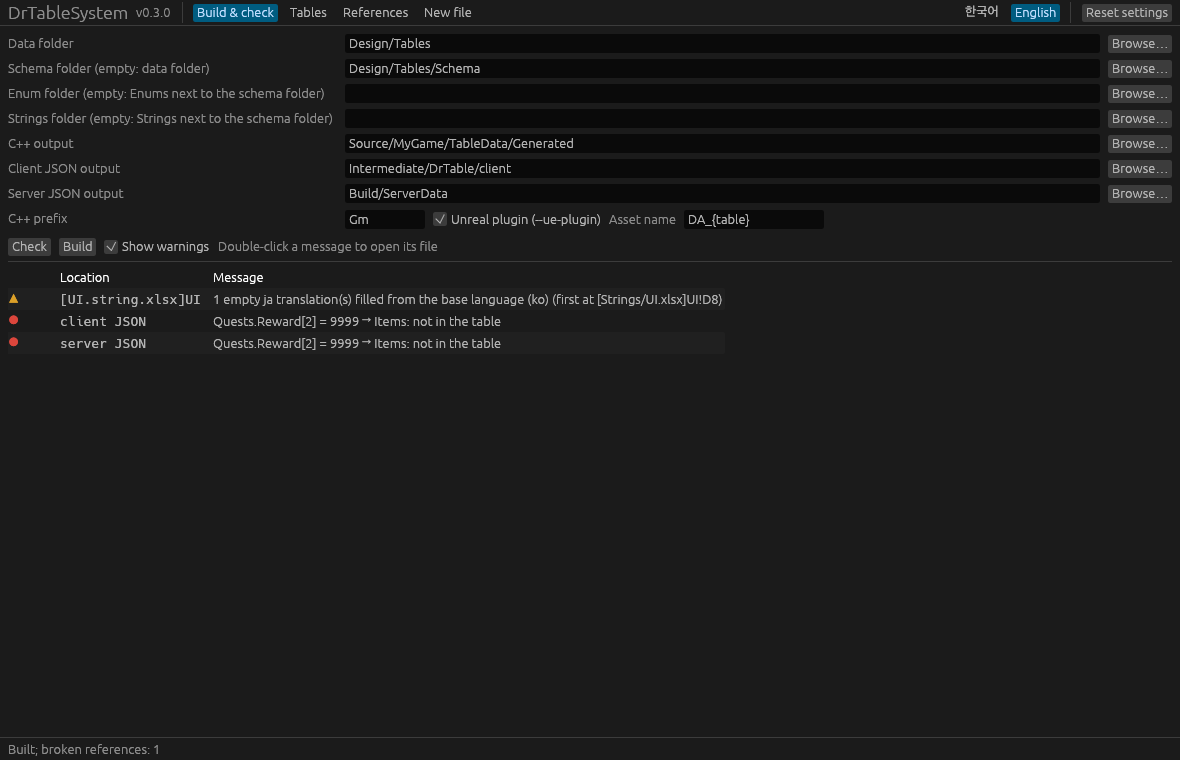
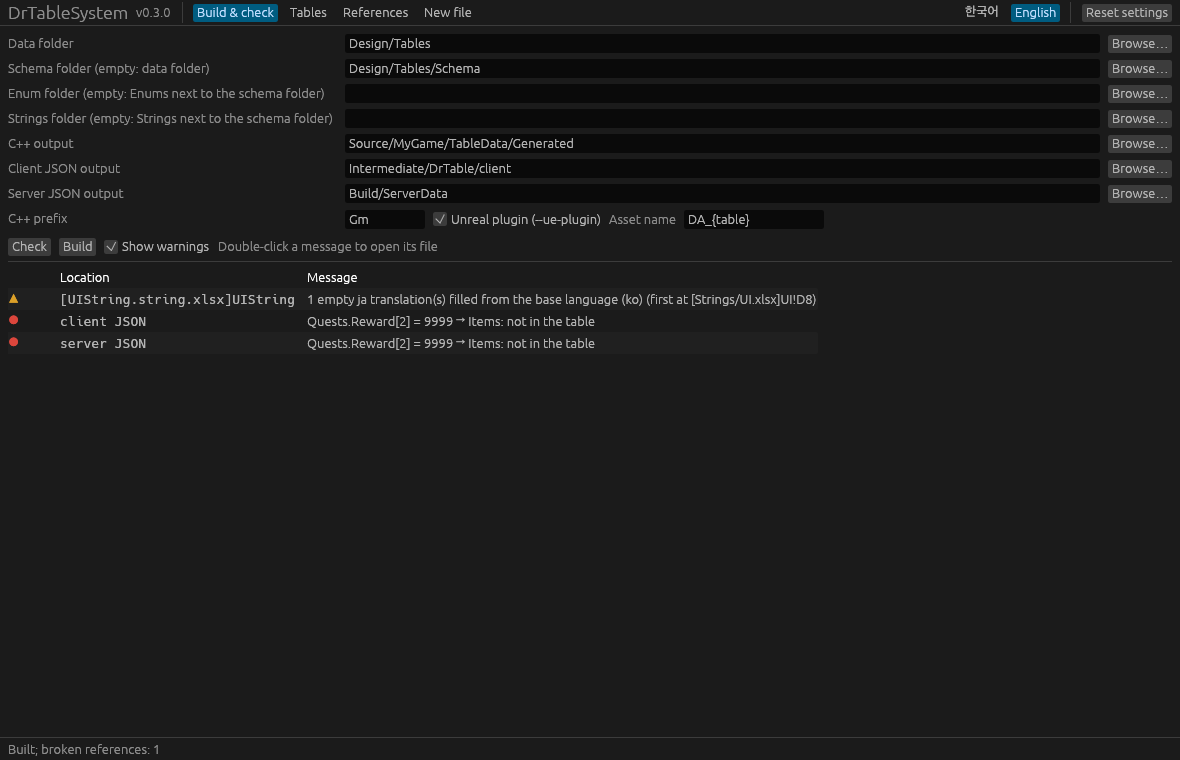
String table schemas are named after the table: UIString.string.xlsx
- The schema file and sheet carry the full table name, which must end with String
  (UIString.string.xlsx, sheet UIString); a name without it is an error with an example.
- Data sheets in the strings folder may leave out String (UI) or write it (UIString).
- Schema errors are reported even when they leave no schema (the empty-input check
  no longer hides them).
- Manual, README, CHANGELOG, design note, screenshots updated.

Claude-Session: https://claude.ai/code/session_016ZSFGbiCnqUvygNywMoQZv

Changed region(s): [[0.0915, 0.3632, 0.6712, 0.4539]]

diff --git a/rust/tests/strings.rs b/rust/tests/strings.rs
@@ -1,5 +1,5 @@
-//! String tables: `<Name>.string.xlsx` language lists, the strings folder, per-language output
-//! and text references. The string table `UI` is the table `UIString`.
+//! String tables: `<Name>String.string.xlsx` language lists, the strings folder, per-language
+//! output and text references. Data sheets may leave out the String suffix (`UI` for `UIString`).
 
 #[macro_use]
 mod common;
@@ -44,7 +44,7 @@ impl Project {
         write_schema(&self.table.join("Schema").join(format!("{name}.schema.xlsx")), name, &fields(items));
     }
 
-    /// Schema/<name>.string.xlsx: one language per row (Language, Base, Scope).
+    /// Schema/<name>.string.xlsx (name ends with String): one language per row (Language, Base, Scope).
     fn string_schema(&self, name: &str, languages: &[Language]) {
         let mut rows = vec![row!["Language", "Base", "Scope", "Comment"]];
         for (code, base, scope) in languages {
@@ -62,7 +62,7 @@ impl Project {
     }
 
     fn ui_strings(&self, data: Vec<Row>) {
-        self.string_schema("UI", &UI_LANGUAGES);
+        self.string_schema("UIString", &UI_LANGUAGES);
         self.data("Strings/UI.xlsx", vec![("UI", sheet(row!["Id", "ko", "en", "zh-Hans"], data))]);
     }
 
@@ -105,7 +105,7 @@ fn string_table_outputs_one_file_per_language() {
     // The empty zh-Hans cell takes the base text.
     let zh = project.json("client/Strings/zh-Hans/UIString.json");
     assert_eq!(zh["values"], json!(["확인", "{0} 金币", "主界面"]));
-    assert!(result.stderr.contains("[UI.string.xlsx]UI: zh-Hans 번역 1칸이 비어 기준 언어(ko) 값으로 채웠습니다"), "{}", result.stderr);
+    assert!(result.stderr.contains("[UIString.string.xlsx]UIString: zh-Hans 번역 1칸이 비어 기준 언어(ko) 값으로 채웠습니다"), "{}", result.stderr);
     assert!(result.stderr.contains("[Strings/UI.xlsx]UI!D5"), "{}", result.stderr);
     // The structure hash is shared; each language has its own content hash.
     assert_eq!(ko["schema_hash"], zh["schema_hash"]);
@@ -115,7 +115,7 @@ fn string_table_outputs_one_file_per_language() {
     assert!(manifest["tables"].as_array().unwrap().iter().all(|t| t["name"] != "UIString"));
     let entry = &manifest["string_tables"][0];
     assert_eq!(entry["name"], "UIString");
-    assert_eq!(entry["schema"], "UI.string.xlsx");
+    assert_eq!(entry["schema"], "UIString.string.xlsx");
     assert_eq!(entry["base_language"], "ko");
     assert_eq!(entry["languages"], json!(["ko", "en", "zh-Hans"]));
     assert_eq!(entry["content_hashes"]["en"], project.json("client/Strings/en/UIString.json")["content_hash"]);
@@ -130,7 +130,7 @@ fn string_table_outputs_one_file_per_language() {
 
 #[test]
 fn a_string_table_and_a_table_may_share_a_name() {
-    // UI.string.xlsx defines UIString, so a regular table UI is unaffected.
+    // UIString.string.xlsx defines UIString; its data sheets are named UI, and a regular table UI is unaffected.
     let project = Project::new();
     project.ui_strings(sample_rows());
     project.schema("UI", &[("Id", "ID<int32>", "all")]);
@@ -144,7 +144,7 @@ fn a_string_table_and_a_table_may_share_a_name() {
 #[test]
 fn server_scope_languages_go_to_the_server_output() {
     let project = Project::new();
-    project.string_schema("Mail", &[("ko", true, "all"), ("en", false, "")]);
+    project.string_schema("MailString", &[("ko", true, "all"), ("en", false, "")]);
     project.data("Strings/Mail.xlsx", vec![("Mail", sheet(row!["Id", "ko", "en"], vec![row!["Welcome", "환영", "Welcome"]]))]);
     assert_eq!(project.build(&[]).code, 0);
     assert_eq!(project.json("server/manifest.json")["string_tables"][0]["languages"], json!(["ko"]));
@@ -218,23 +218,23 @@ fn string_keys_header_is_opt_in() {
 #[test]
 fn string_data_belongs_in_the_strings_folder() {
     let project = Project::new();
-    project.string_schema("UI", &UI_LANGUAGES);
+    project.string_schema("UIString", &UI_LANGUAGES);
     project.schema("Items", &[("Id", "ID<int32>", "all")]);
     project.data("UI.xlsx", vec![("UI", sheet(row!["Id", "ko", "en", "zh-Hans"], vec![row!["A", "가", (), ()]]))]);
     project.data("Strings/Items.xlsx", vec![("Items", sheet(row!["Id"], vec![row![1]]))]);
     project.data("Strings/Other.xlsx", vec![("Menu", sheet(row!["Id", "ko"], vec![row!["A", "가"]]))]);
     let result = project.build(&[]);
     assert_eq!(result.code, 1);
-    assert!(result.stderr.contains("[UI.xlsx]UI!A1: 스트링테이블 'UI'의 데이터는 스트링 폴더("), "{}", result.stderr);
+    assert!(result.stderr.contains("[UI.xlsx]UI!A1: 스트링테이블 'UIString'의 데이터는 스트링 폴더("), "{}", result.stderr);
     assert!(result.stderr.contains("[Strings/Items.xlsx]Items!A1: 일반 테이블 'Items'의 데이터는 스트링 폴더("), "{}", result.stderr);
-    assert!(result.stderr.contains("[Strings/Other.xlsx]Menu!A1: 스트링테이블 스키마가 없습니다. 언어 목록을 'Menu.string.xlsx'에"), "{}", result.stderr);
+    assert!(result.stderr.contains("[Strings/Other.xlsx]Menu!A1: 스트링테이블 스키마가 없습니다. 언어 목록을 'MenuString.string.xlsx'에"), "{}", result.stderr);
 }
 
 #[test]
 fn strings_folder_option_and_default_without_a_schema_folder() {
     // Elsewhere with --strings.
     let project = Project::new();
-    project.string_schema("UI", &UI_LANGUAGES);
+    project.string_schema("UIString", &UI_LANGUAGES);
     let elsewhere = project.table.parent().unwrap().join("Localization");
     Book::new()
         .with("UI", sheet(row!["Id", "ko", "en", "zh-Hans"], vec![row!["A", "가", "A", "甲"]]))
@@ -246,8 +246,8 @@ fn strings_folder_option_and_default_without_a_schema_folder() {
     // Without --schema the schemas sit in the input folder and the strings in <input>/Strings.
     let tmp = Tmp::new();
     Book::new()
-        .with("UI", vec![row!["Language", "Base", "Scope"], row!["ko", true], row!["en"]])
-        .save_plain(&tmp.join("UI.string.xlsx"));
+        .with("UIString", vec![row!["Language", "Base", "Scope"], row!["ko", true], row!["en"]])
+        .save_plain(&tmp.join("UIString.string.xlsx"));
     Book::new().with("UI", sheet(row!["Id", "ko", "en"], vec![row!["A", "가", ()]])).save_plain(&tmp.join("Strings/UI.xlsx"));
     let result = build(&tmp, &tmp.join("out"), &[]);
     assert_eq!(result.code, 0, "{}", result.stderr);
@@ -264,11 +264,11 @@ fn language_list_rules() {
     ];
     for (languages, cell, message) in cases {
         let project = Project::new();
-        project.string_schema("UI", languages);
+        project.string_schema("UIString", languages);
         project.data("Strings/UI.xlsx", vec![("UI", sheet(row!["Id", "ko", "en"], vec![]))]);
         let result = project.build(&[]);
         assert_eq!(result.code, 1, "{message}");
-        assert!(result.stderr.contains(&format!("[UI.string.xlsx]UI!{cell}")), "{message}: {}", result.stderr);
+        assert!(result.stderr.contains(&format!("[UIString.string.xlsx]UIString!{cell}")), "{message}: {}", result.stderr);
         assert!(result.stderr.contains(message), "{message}: {}", result.stderr);
     }
 }
@@ -324,7 +324,7 @@ fn string_keys_differing_only_by_case_are_rejected() {
 #[test]
 fn new_creates_a_string_data_workbook() {
     let project = Project::new();
-    project.string_schema("UI", &UI_LANGUAGES);
+    project.string_schema("UIString", &UI_LANGUAGES);
     let out = project.table.join("Strings/UI.xlsx");
     let result = drtable(["new", "--table", "UI", "--out", &s(&out), "--schema", &s(&project.table.join("Schema"))]);
     assert_eq!(result.code, 0, "{}", result.stderr);
@@ -339,4 +339,26 @@ fn new_creates_a_string_data_workbook() {
     assert!(base_view.contains("SUBSTITUTE(B$1,\"-\",\"_\")"), "{base_view}");
     // The new workbook builds (an empty string table).
     assert_eq!(project.build(&[]).code, 0);
+}
+
+#[test]
+fn string_table_names_end_with_string() {
+    let project = Project::new();
+    project.string_schema("Mail", &[("ko", true, "")]);
+    let result = project.build(&[]);
+    assert_eq!(result.code, 1);
+    assert!(result.stderr.contains("[Mail.string.xlsx]Mail!A1: 스트링테이블 이름은 String으로 끝나야 합니다 (예: MailString.string.xlsx"), "{}", result.stderr);
+}
+
+#[test]
+fn data_sheets_may_use_the_full_name() {
+    let project = Project::new();
+    project.string_schema("UIString", &UI_LANGUAGES);
+    project.data("Strings/UI.xlsx", vec![
+        ("UI", sheet(row!["Id", "ko", "en", "zh-Hans"], vec![row!["A", "가", (), ()]])),
+        ("UIString#more", sheet(row!["Id", "ko", "en", "zh-Hans"], vec![row!["B", "나", (), ()]])),
+    ]);
+    let result = project.build(&[]);
+    assert_eq!(result.code, 0, "{}", result.stderr);
+    assert_eq!(project.json("client/Strings/ko/UIString.json")["keys"], json!(["A", "B"]));
 }

diff --git a/rust/src/excel.rs b/rust/src/excel.rs
@@ -107,7 +107,7 @@ pub fn load_model(
     }
     // An input folder with nothing in it is almost always a wrong path; building it would
     // replace the generated code with an empty set.
-    if files.is_empty() && schemas.all().next().is_none() {
+    if files.is_empty() && schemas.all().next().is_none() && errors.messages.is_empty() {
         return Err(ValidationErrors(vec![tr(
             format!("입력!A1: 스키마도 데이터 파일도 없습니다: {}", input.display()),
             format!("input!A1: no schema or data workbook found: {}", input.display()),
@@ -153,31 +153,42 @@ pub fn load_model(
                 ));
                 continue;
             }
-            // Sheets in the strings folder belong to string tables: sheet UI is the table UIString.
-            let string_name = format!("{name}{STRING_TABLE_SUFFIX}");
+            // Sheets in the strings folder belong to string tables; the sheet may leave out the
+            // String suffix (UI for UIString).
+            let string_name = if name.ends_with(STRING_TABLE_SUFFIX) && schemas.tables.get(name).is_some_and(|s| s.is_strings) {
+                name.to_string()
+            } else {
+                format!("{name}{STRING_TABLE_SUFFIX}")
+            };
             let table = if in_strings_folder { string_name.as_str() } else { name };
             let folder = strings_root.display();
+            let wrong_place = |is_strings: bool| if is_strings {
+                tr(
+                    format!("스트링테이블 '{string_name}'의 데이터는 스트링 폴더({folder})에 두어야 합니다"),
+                    format!("string table '{string_name}' data belongs in the strings folder ({folder})"),
+                )
+            } else {
+                tr(
+                    format!("일반 테이블 '{name}'의 데이터는 스트링 폴더({folder})에 둘 수 없습니다"),
+                    format!("table '{name}' is not a string table; its data cannot be in the strings folder ({folder})"),
+                )
+            };
             match schemas.tables.get(table) {
                 Some(schema) if schema.is_strings == in_strings_folder => {
                     if let Some(grid) = &sheet.grid {
                         table_parts.entry(table.to_string()).or_default().push(SheetRef { file: relative, grid });
                     }
                 }
-                Some(_) => errors.add(&where_, "A1", tr(
-                    format!("일반 테이블 '{name}'의 데이터는 스트링 폴더({folder})에 둘 수 없습니다"),
-                    format!("table '{name}' is not a string table; its data cannot be in the strings folder ({folder})"),
-                )),
-                None if !in_strings_folder && schemas.tables.get(&string_name).is_some_and(|s| s.is_strings) => errors.add(&where_, "A1", tr(
-                    format!("스트링테이블 '{name}'의 데이터는 스트링 폴더({folder})에 두어야 합니다"),
-                    format!("string table '{name}' data belongs in the strings folder ({folder})"),
-                )),
-                None if in_strings_folder && schemas.tables.get(name).is_some_and(|s| !s.is_strings) => errors.add(&where_, "A1", tr(
-                    format!("일반 테이블 '{name}'의 데이터는 스트링 폴더({folder})에 둘 수 없습니다"),
-                    format!("table '{name}' is not a string table; its data cannot be in the strings folder ({folder})"),
-                )),
+                Some(schema) => errors.add(&where_, "A1", wrong_place(schema.is_strings)),
+                None if !in_strings_folder && schemas.tables.get(&string_name).is_some_and(|s| s.is_strings) => {
+                    errors.add(&where_, "A1", wrong_place(true))
+                }
+                None if in_strings_folder && schemas.tables.get(name).is_some_and(|s| !s.is_strings) => {
+                    errors.add(&where_, "A1", wrong_place(false))
+                }
                 None if in_strings_folder => errors.add(&where_, "A1", tr(
-                    format!("스트링테이블 스키마가 없습니다. 언어 목록을 '{name}.string.xlsx'에 정의하세요"),
-                    format!("no string table schema. List the languages in '{name}.string.xlsx'"),
+                    format!("스트링테이블 스키마가 없습니다. 언어 목록을 '{string_name}.string.xlsx'에 정의하세요"),
+                    format!("no string table schema. List the languages in '{string_name}.string.xlsx'"),
                 )),
                 None => errors.add(&where_, "A1", tr(
                     format!("스키마가 없습니다. '{name}.schema.xlsx'에 필드를 정의하세요"),

diff --git a/rust/src/schemafile.rs b/rust/src/schemafile.rs
@@ -2,13 +2,13 @@
 //!
 //! * Table schemas: `<Table>.schema.xlsx` in the schema folder.
 //! * Enum schemas: `<Enum>.enum.xlsx` in the enum folder (default: `Enums` next to the schema folder).
-//! * String table schemas: `<Name>.string.xlsx` in the schema folder. They define the table
-//!   `<Name>String`: an `Id` name key and one column per language.
+//! * String table schemas: `<Name>String.string.xlsx` in the schema folder (the name ends with
+//!   `String`). They define the table `<Name>String`: an `Id` name key and one column per language.
 //!
 //! Table schema: one sheet named after the table; row 1 labels, from row 2 one field per row
 //! (A name, B type, C scope, D comment). Enum schema: one sheet named after the enum; from
 //! row 2 one enumerator per row (A name, B value, C comment). String table schema: one sheet
-//! named `<Name>`; from row 2 one language per row (A language code, B base language mark,
+//! named `<Name>String`; from row 2 one language per row (A language code, B base language mark,
 //! C scope (default client), D comment).
 
 use std::collections::BTreeMap;
@@ -25,7 +25,7 @@ pub const TABLE_SUFFIXES: [&str; 1] = [".schema.xlsx"];
 pub const ENUM_SUFFIXES: [&str; 1] = [".enum.xlsx"];
 pub const STRING_SUFFIXES: [&str; 1] = [".string.xlsx"];
 pub const SCHEMA_SUFFIXES: [&str; 3] = [".schema.xlsx", ".enum.xlsx", ".string.xlsx"];
-/// A string table `UI` (UI.string.xlsx, data sheets `UI`) is the table `UIString`.
+/// String table names end with this (UIString.string.xlsx); data sheets may leave it out (`UI`).
 pub const STRING_TABLE_SUFFIX: &str = "String";
 pub const DEFAULT_ENUM_FOLDER: &str = "Enums";
 pub const DEFAULT_STRINGS_FOLDER: &str = "Strings";
@@ -39,7 +39,7 @@ pub struct Schema {
     pub name: String,
     pub rows: Vec<Row>,
     pub is_enum: bool,
-    /// A string table schema (`.string.xlsx`); `name` is `<title>String`.
+    /// A string table schema (`.string.xlsx`); its name ends with `String`.
     pub is_strings: bool,
     /// Sheet name as written.
     pub title: String,
@@ -52,8 +52,8 @@ impl Schema {
         format!("[{}]{}", self.file, if self.title.is_empty() { &self.name } else { &self.title })
     }
 
-    /// The name as written in the file (`UI` for the string table `UIString`).
-    pub fn defined_name(&self) -> String {
+    /// The name a data sheet may use: `UI` for the string table `UIString`, otherwise the name.
+    pub fn short_name(&self) -> String {
         if self.is_strings {
             self.name.strip_suffix(STRING_TABLE_SUFFIX).unwrap_or(&self.name).to_string()
         } else {
@@ -208,7 +208,7 @@ fn collect(
         let Some(schema) = read_schema(path, relative, kind, errors) else { continue };
         let file_name = path.file_name().map(|n| n.to_string_lossy().to_string()).unwrap_or_default();
         let stem = &file_name[..file_name.len() - suffix.len()];
-        let defined = schema.defined_name();
+        let defined = schema.name.clone();
         if defined != stem {
             errors.add(&schema.where_(), "A1", tr(
                 format!("이름 '{defined}'과 파일 이름 '{file_name}'이 다릅니다. 파일 이름은 '{defined}{suffix}'여야 합니다"),
@@ -258,6 +258,14 @@ fn read_schema(path: &Path, relative: &str, kind: Kind, errors: &mut ErrorCollec
         ));
         return None;
     }
+    if is_strings && (schema.name.len() <= STRING_TABLE_SUFFIX.len() || !schema.name.ends_with(STRING_TABLE_SUFFIX)) {
+        let example = format!("{}{STRING_TABLE_SUFFIX}", schema.name);
+        errors.add(&schema.where_(), "A1", tr(
+            format!("스트링테이블 이름은 String으로 끝나야 합니다 (예: {example}.string.xlsx, 시트 {example})"),
+            format!("a string table name must end with String (e.g. {example}.string.xlsx, sheet {example})"),
+        ));
+        return None;
+    }
     let grid = sheet.grid?;
     let width = if is_enum { 3 } else { 4 };
     for row in 2..=grid.max_row() {
@@ -298,7 +306,6 @@ fn read_schema(path: &Path, relative: &str, kind: Kind, errors: &mut ErrorCollec
     if is_strings {
         // The key is implicit: Id, a name, in every output.
         schema.rows.insert(0, (1, Cell::Str("Id".into()), Cell::Str("ID<name>".into()), Cell::Str("all".into()), Cell::Empty));
-        schema.name = format!("{}{STRING_TABLE_SUFFIX}", schema.name);
     }
     Some(schema)
 }

diff --git a/rust/src/headers.rs b/rust/src/headers.rs
@@ -53,8 +53,8 @@ pub fn new_workbook(target: &Path, table: &str, schemas: &Schemas, errors: &mut 
     let mut workbook = Workbook::new();
     let sheet = workbook.add_worksheet();
     let written = (|| -> Result<(), rust_xlsxwriter::XlsxError> {
-        // A string table's data sheet is named like its schema sheet (UI), not the table (UIString).
-        sheet.set_name(&sheet_name)?;
+        // A string table's data sheet uses the short name (UI for UIString).
+        sheet.set_name(schema.short_name())?;
         for (index, (schema_row, name, _, _)) in schema.raw_columns().iter().enumerate() {
             let column = index as u16;
             let letter = column_letter(index + 1);

diff --git a/docs/en/manual.md b/docs/en/manual.md
@@ -239,11 +239,11 @@ DropTable:  Id: ID<int32>       GroupId: SubKey<int32>      Item: Ref<Items>
 
 Text that differs per language, such as UI text and item names, lives in string tables. The game keeps **only the current language** in memory. Switching languages loads the new one, swaps it in at once, and then fires a delegate so the UI can redraw.
 
-### Schema: `<Name>.string.xlsx`
+### Schema: `<Name>String.string.xlsx`
 
-A string table schema is just a **list of languages**, with no types. It goes in the schema folder as `<Name>.string.xlsx`, with a sheet named `<Name>`. The table it defines is **`<Name>String`** (`UI.string.xlsx` → `UIString`), so it never clashes with a regular table `UI`.
+A string table schema is just a **list of languages**, with no types. It goes in the schema folder named **after the table** (`<Name>.string.xlsx`, with a sheet of the same name). A string table name **must end with `String`** (`UIString.string.xlsx`, sheet `UIString`), so it never clashes with a regular table `UI`.
 
-`Schema/UI.string.xlsx`, sheet `UI`:
+`Schema/UIString.string.xlsx`, sheet `UIString`:
 
 | | A Language | B Base | C Scope | D Comment |
 |---|---|---|---|---|
@@ -267,10 +267,10 @@ Design/Tables/          data
 Design/Tables/Schema/   schemas (string table schemas too)
 Design/Tables/Enums/    enums
 Design/Tables/Strings/  string table data (--strings, default: Strings next to the schema folder)
-  UI.xlsx               sheet UI (= table UIString): row 1 Id ko en zh-Hans, data from row 4
+  UI.xlsx               sheet UI (= UIString): row 1 Id ko en zh-Hans, data from row 4
 ```
 
-- The sheet is named like the schema (`UI`). Sheets in the strings folder belong to the `<Name>String` table.
+- Sheets in the strings folder may leave out `String`: sheet `UI` belongs to `UIString` (writing `UIString` works too).
 - Without `--schema`, the strings folder is `Strings` inside the input folder. Splitting sheets and files (`UI#Menu`) works as for other tables.
 - These are errors:
   - a string table sheet outside the strings folder
@@ -294,7 +294,7 @@ client/manifest.json               "string_tables": base language, languages, co
 
 ### Pointing at strings from other tables
 
-When a regular table points at a string table key, as in `Name: Ref<ItemString>` (schema `Item.string.xlsx`), the generated accessor returns **the text in the current language**:
+When a regular table points at a string table key, as in `Name: Ref<ItemString>` (schema `ItemString.string.xlsx`), the generated accessor returns **the text in the current language**:
 
 ```cpp
 const FGmItemsRow* Sword = FGmItemsRow::Find(1001);
@@ -582,8 +582,9 @@ A `v*` tag builds the executables for each platform and attaches them to a Relea
 | `Table asset not found` | Registered but never baked, or `AssetRoot`/`--asset-name` differ between bake and load. |
 | `Row type is registered for more than one table` | The same row struct was registered twice. Look it up by table id (`FindRowByKey<TRow>(TableId, Key)`). |
 | `string table 'X' data belongs in the strings folder (…)` | Move the string table workbook into the strings folder (and other tables' workbooks out of it). |
-| `mark one base language` | In `<Name>.string.xlsx`, put a mark (✓) in column B (Base) of one language. |
-| `no string table schema` | No `<Name>.string.xlsx` matches the sheet name in the strings folder. |
+| `mark one base language` | In `<Name>String.string.xlsx`, put a mark (✓) in column B (Base) of one language. |
+| `no string table schema` | No `<Name>String.string.xlsx` matches the sheet name in the strings folder. |
+| `a string table name must end with String` | Rename the schema file and sheet to `<Name>String`. |
 | `… empty … translation(s) filled from the base language` (warning) | Cells not translated yet; the game shows the base language text. |
 | `No text for Table.Key` (Unreal warning) | The key is not in the string table, or it was not baked. Generate → bake. |
 | `--asset-base requires --asset-base-header` | Pass the header that declares the base class, or use `--ue-plugin`. |

diff --git a/CHANGELOG.md b/CHANGELOG.md
@@ -2,7 +2,7 @@
 
 ## 0.3.0
 
-- String tables: `<Name>.string.xlsx` lists the languages (code, base mark, scope) and defines the table `<Name>String`; data sheets `<Name>` in the strings folder (`--strings`, default `Strings` next to the schema folder). Empty translations take the base text at build time; format arguments that differ from the base text are warned. Output per language (`Strings/<culture>/<Table>.json`), no generated code for string tables (`--string-keys` adds optional key constants).
+- String tables: `<Name>String.string.xlsx` lists the languages (code, base mark, scope); data sheets `<Name>` (or `<Name>String`) in the strings folder (`--strings`, default `Strings` next to the schema folder). Empty translations take the base text at build time; format arguments that differ from the base text are warned. Output per language (`Strings/<culture>/<Table>.json`), no generated code for string tables (`--string-keys` adds optional key constants).
 - `Ref<StringTable>` accessors return the text in the current language.
 - Unreal plugin: per-language string assets and a language list baked by `DrTableBake`; `UDrStringSubsystem` loads only the current language, switches asynchronously, unloads the previous one and fires `OnLanguageChanged`; `UDrLocalizedTextBlock` redraws itself.
 - `drtable-gui`: a strings folder setting, and string tables listed separately.

diff --git a/docs/design/string-tables.md b/docs/design/string-tables.md
@@ -1,6 +1,6 @@
 # 스트링테이블 설계 (초안)
 
-> **변경(2026-10-01)**: 스키마는 `<이름>.string.xlsx` **언어 목록**(A 언어 코드, B 기준 표시, C 범위; 자료형 없음)으로 나눴다. 이 파일이 정의하는 테이블은 `<이름>String`이고(`UI.string.xlsx` → `UIString`), 스트링 폴더의 시트 `UI`가 그 데이터다. 아래 본문의 `lang`/`Base<lang>` 열 표기는 내부 표현으로만 남았고, 일반 `.schema.xlsx`에는 쓸 수 없다. 언어 코드는 `zh-Hans`처럼 써도 된다.
+> **변경(2026-10-01)**: 스키마는 `<이름>String.string.xlsx` **언어 목록**(A 언어 코드, B 기준 표시, C 범위; 자료형 없음)으로 나눴다. 파일·시트 이름이 곧 테이블 이름이고 `String`으로 끝나야 한다(`UIString.string.xlsx`). 스트링 폴더의 데이터 시트는 `String`을 생략해 `UI`로 써도 된다. 아래 본문의 `lang`/`Base<lang>` 열 표기는 내부 표현으로만 남았고, 일반 `.schema.xlsx`에는 쓸 수 없다. 언어 코드는 `zh-Hans`처럼 써도 된다.
 
 상태: **구현됨**(2026-10-01). 결정(◆)은 모두 확정했다. 사용법은 매뉴얼 8절이 기준이고, 이 문서는 설계 기록이다.
 

diff --git a/README.ko.md b/README.ko.md
@@ -9,7 +9,7 @@
 - **클라·서버 JSON**을 같은 데이터에서 필드 범위별로 나눠 만듭니다.
 - **언리얼 플러그인**: 클라 JSON을 키 인덱스까지 계산된 DataAsset으로 굽고, 복사 없이 읽으며, 오래된 에셋을 거부합니다.
 - **테이블 간 참조**(`Ref<Items>`, `Ref<DropTable.GroupId>`)를 `drtable check`로 검사하고 Mermaid 그래프로 그립니다.
-- **스트링테이블**(`UI.string.xlsx`에 언어 목록과 기준 언어 → 테이블 `UIString`): 데이터는 별도 Strings 폴더, 언어마다 파일·에셋 하나. 게임은 설정 언어만 불러오고, 런타임에 언어를 바꾸면 UI에 갱신을 알립니다.
+- **스트링테이블**(`UIString.string.xlsx`에 언어 목록과 기준 언어): 데이터는 별도 Strings 폴더, 언어마다 파일·에셋 하나. 게임은 설정 언어만 불러오고, 런타임에 언어를 바꾸면 UI에 갱신을 알립니다.
 - **GUI**(`drtable-gui`): 빌드·검사(오류를 더블클릭하면 파일 열기), 테이블 탐색, 참조 그래프, 새 데이터 파일 만들기.
 - 한 테이블을 여러 시트·파일로 나누기, 결정적 산출물, 영어·한국어 메시지.
 

diff --git a/README.md b/README.md
@@ -9,7 +9,7 @@
 - **Client and server JSON** from the same data, split by field scope.
 - **Unreal plugin**: bakes client JSON into DataAssets with prebuilt key indices, loads them without copying, and rejects stale assets.
 - **References between tables** (`Ref<Items>`, `Ref<DropTable.GroupId>`), checked by `drtable check` and drawn as a Mermaid graph.
-- **String tables** (`UI.string.xlsx` lists the languages and the base one → table `UIString`): data in a separate Strings folder, one file and asset per language; the game loads only the current language, switches at runtime and tells the UI to refresh.
+- **String tables** (`UIString.string.xlsx` lists the languages and the base one): data in a separate Strings folder, one file and asset per language; the game loads only the current language, switches at runtime and tells the UI to refresh.
 - **GUI** (`drtable-gui`): build and check with clickable errors, browse tables, see the reference graph, create data workbooks.
 - Split a table over sheets and files, deterministic output, messages in English or Korean.
 
